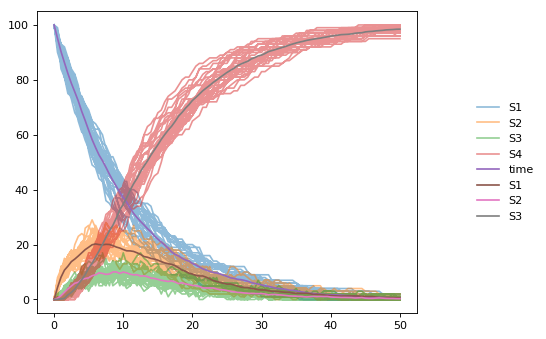
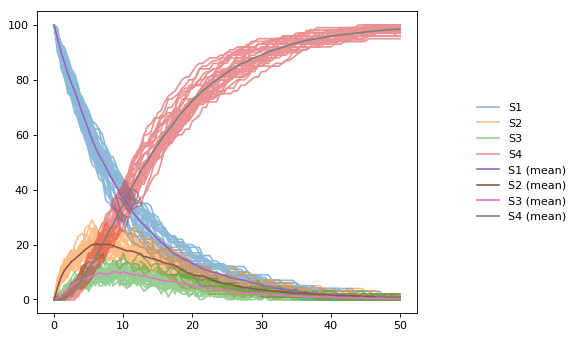
update intro nb doc

diff --git a/docs/_notebooks/core/introduction.rst b/docs/_notebooks/core/introduction.rst
@@ -58,26 +58,25 @@ model.
     Nsim = 30
     points = 101
     s_sum = np.zeros(shape=[points, Ncol])
-    #s_sum = r.simulate(0, 50, points, selections=selections)
     for k in range(Nsim):
         r.resetToOrigin()
         s = r.simulate(0, 50, points, selections=selections)
         s_sum += s
         # no legend, do not show
         r.plot(s, alpha=0.5, show=False)
-    #r.show()
     # add mean curve, legend, show everything and set labels, titels, ...
-    te.plot(s[:,0], s_sum[:,1:]/Nsim, colnames=selections, title="Stochastic simulation", xtitle="time", ytitle="concentration")
+    te.plot(s[:,0], s_sum[:,1:]/Nsim, colnames=[x + ' (mean)' for x in selections[1:]], title="Stochastic simulation", xtitle="time", ytitle="concentration")
 
 
 
 
 .. parsed-literal::
 
-    <tellurium.plotting.engine_mpl.MatplotlibFigure at 0x7f16fbd0d908>
+    <tellurium.plotting.engine_mpl.MatplotlibFigure at 0x7f16b4052518>
 
 
 
 
 .. image:: _notebooks/core/introduction_files/introduction_4_1.png
+
 
